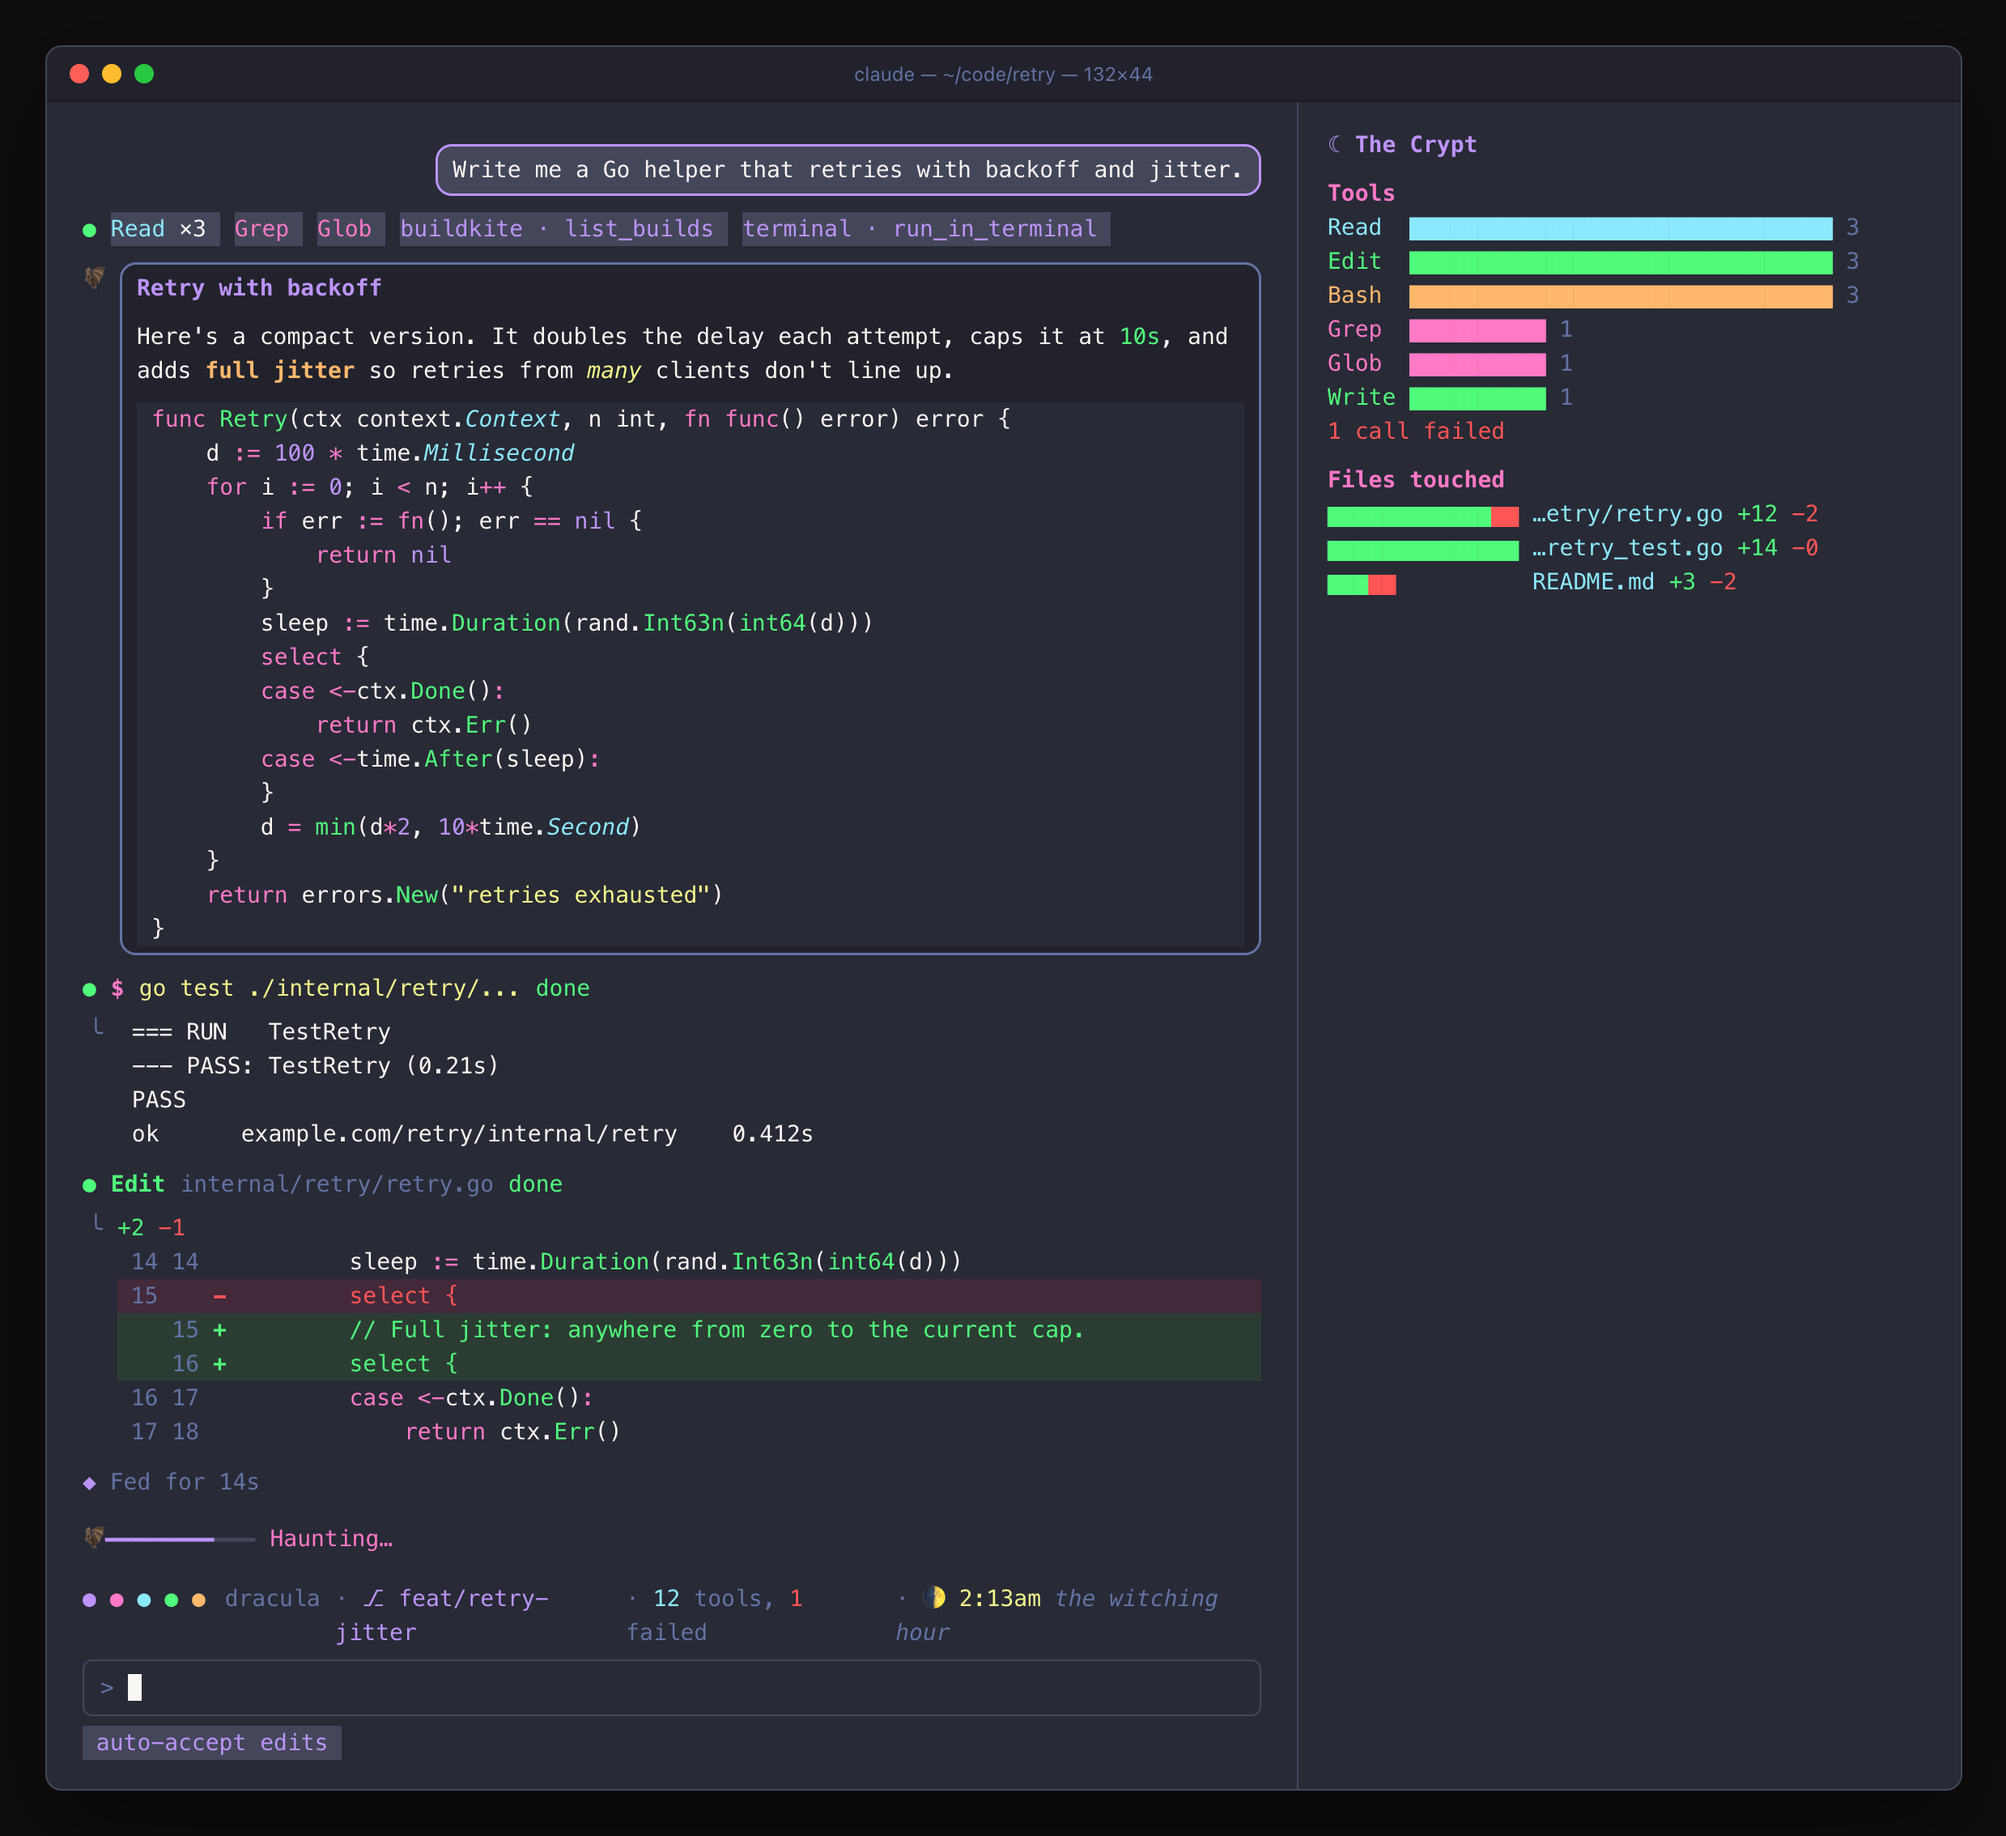
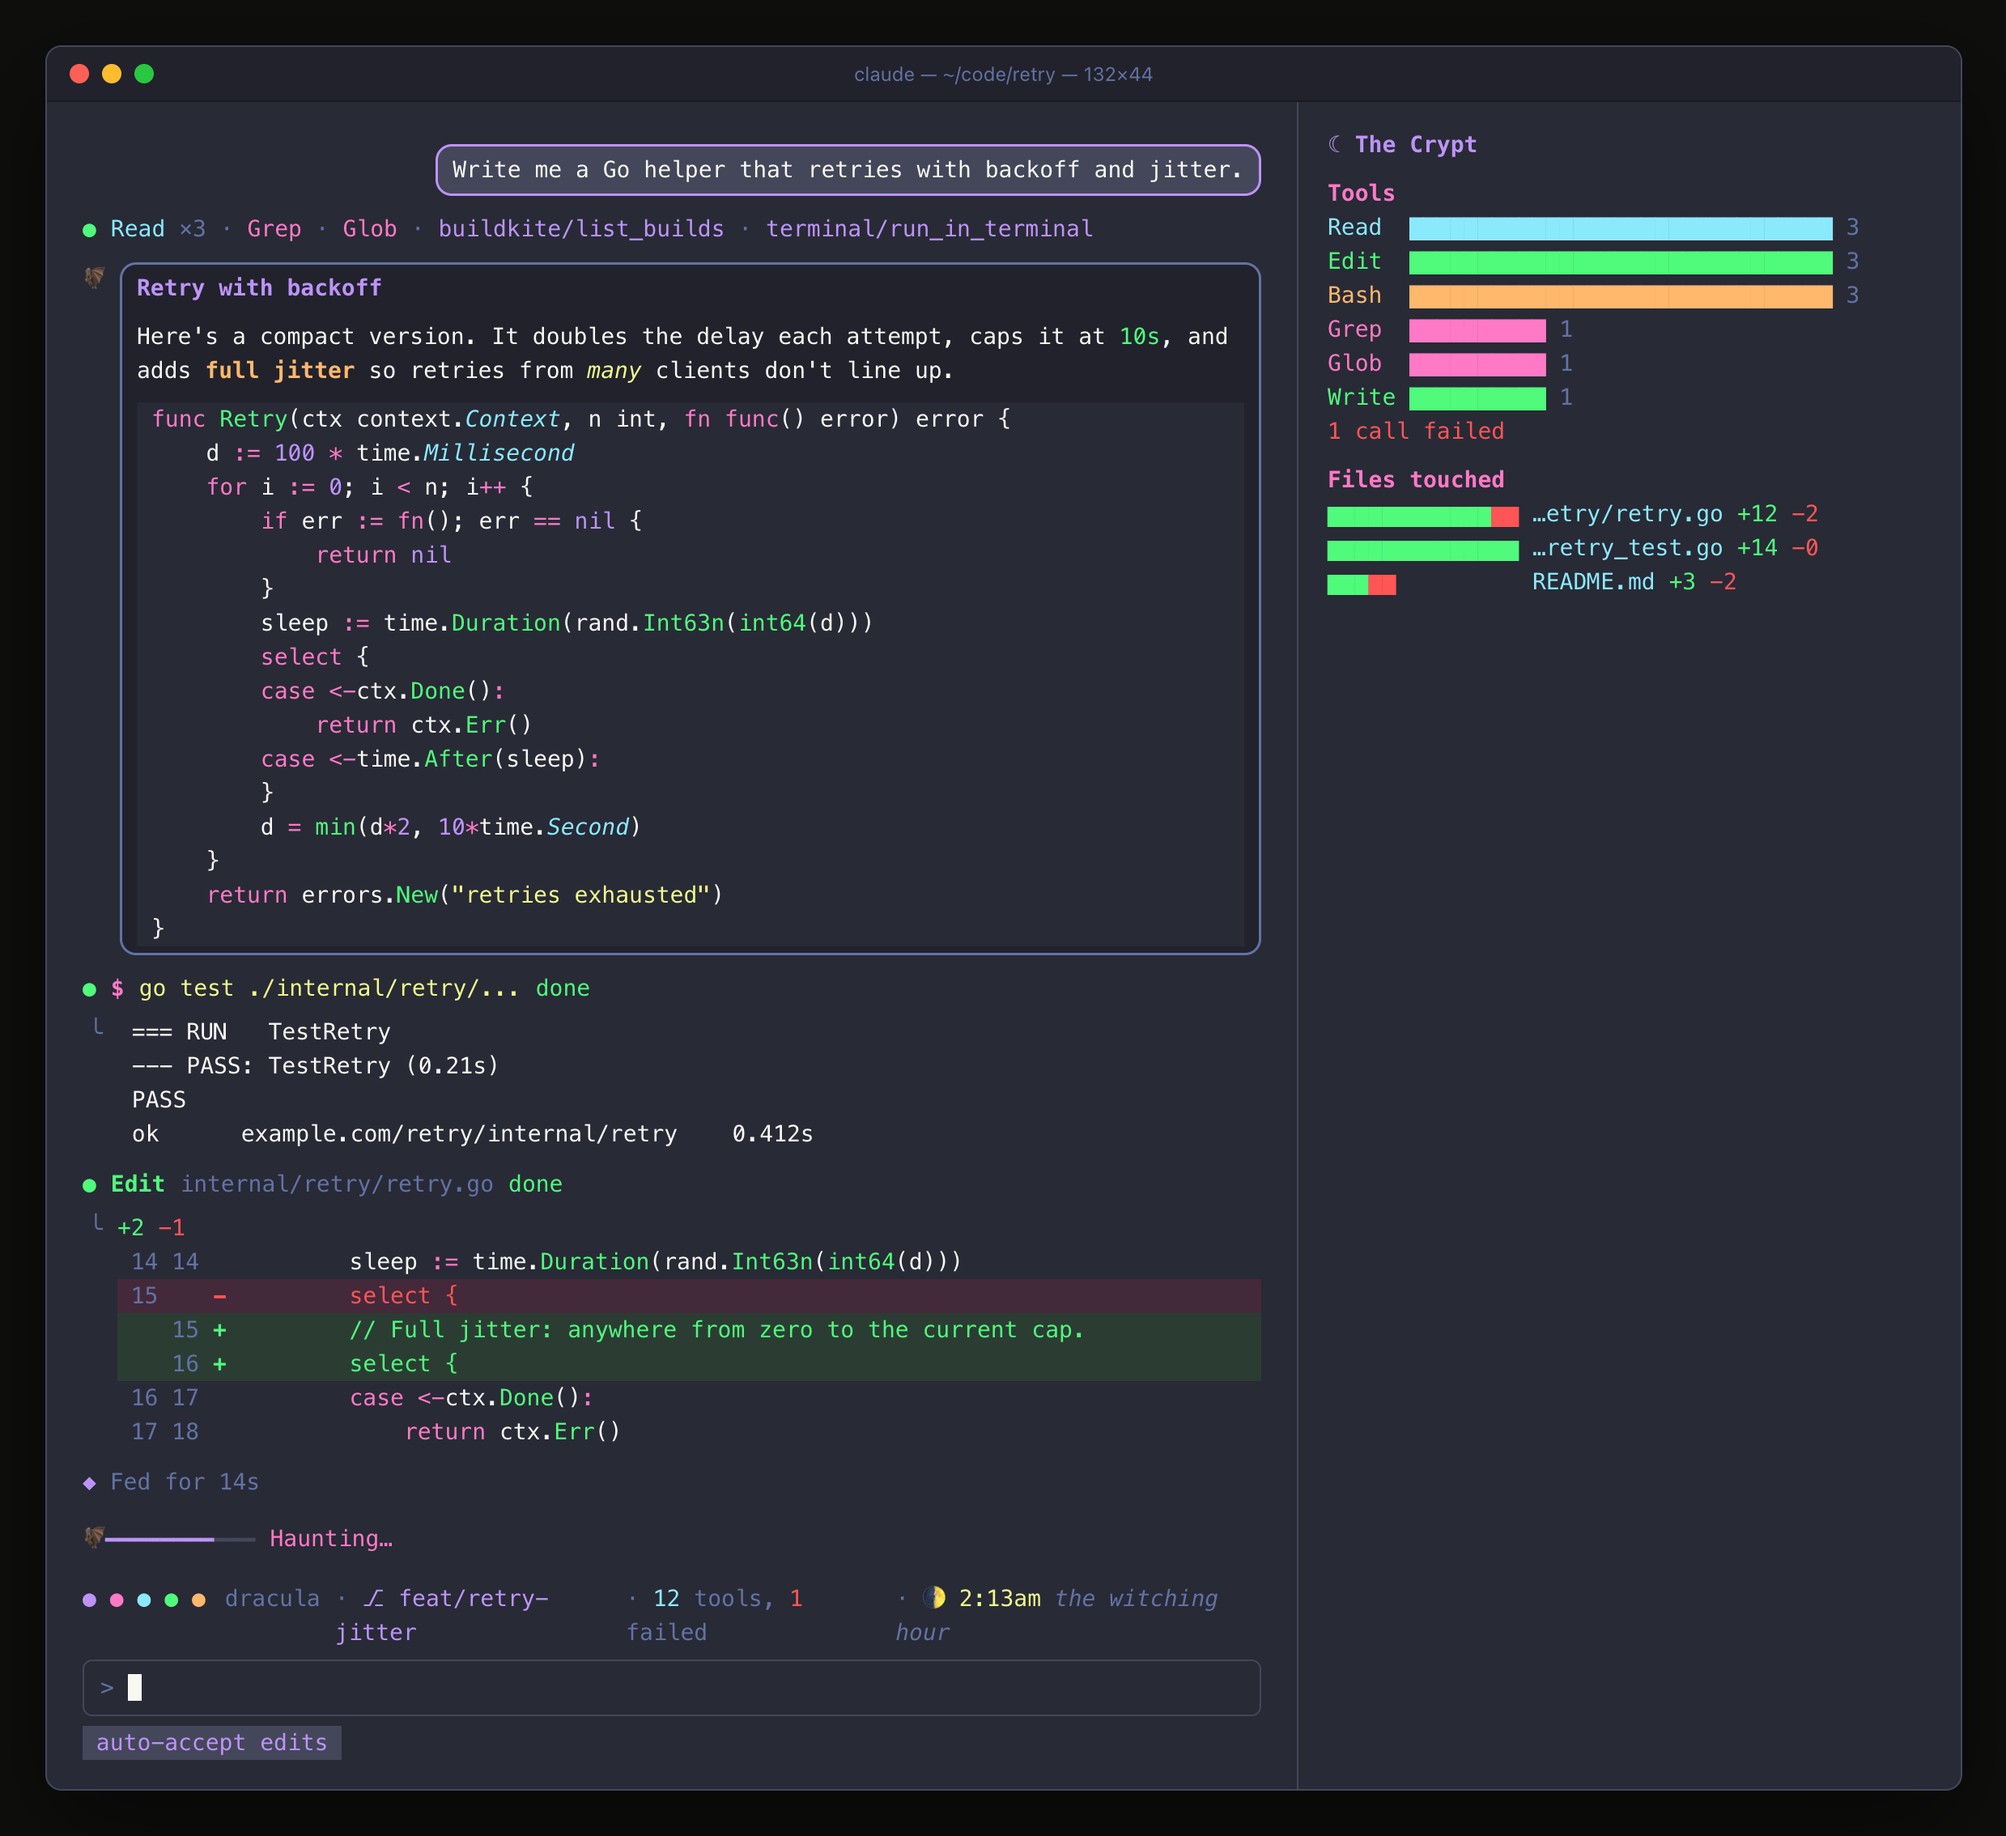
Draw a folded run of calls as one line of colored names
The chips' background fills broke and misaligned in the desktop app.
A folded run is now plain text: each tool in its color, counts dim,
split by dim dots. MCP tools read server/tool so their names don't
collide with the separator.

Changed region(s): [[0.0621, 0.0926, 0.5593, 0.1543]]

diff --git a/hooks/dracula.test.tsx b/hooks/dracula.test.tsx
@@ -205,7 +205,7 @@ test('an edit is drawn as a Dracula diff', async ($, on) => {
   await ui.unmount()
 })
 
-test('a folded run of calls is one row of tool chips', async ($, on) => {
+test('a folded run of calls is one line of colored tool names', async ($, on) => {
   engine(on)
   await $.session.start({ cwd: '/', surface: 'terminal', isInteractive: true })
 
@@ -216,12 +216,17 @@ test('a folded run of calls is one row of tool chips', async ($, on) => {
     surface: 'terminal',
     props: { calls: [call('Read'), call('Read'), call('Grep')], isActive: false, isExpanded: false },
   })
-  expect(await ui.find({ type: 'Text', text: /^ Read ×2 $/ })).toBeTruthy()
-  expect(await ui.find({ type: 'Text', text: /^ Grep $/ })).toBeTruthy()
+  const color = async (text: RegExp) =>
+    ((await ui.find({ type: 'Text', text })) as { props?: { color?: string } } | undefined)?.props?.color
+  expect(await color(/^Read$/)).toBe('#8BE9FD')
+  expect(await color(/^ ×2$/)).toBe('#6272A4')
+  expect(await color(/^Grep$/)).toBe('#FF79C6')
+  const texts = (await ui.findAll({ type: 'Text' })) as { props?: { backgroundColor?: string } }[]
+  expect(texts.some(text => text.props?.backgroundColor)).toBe(false)
   await ui.unmount()
 })
 
-test('MCP tool chips read server · tool, stay on one line and wrap between chips', async ($, on) => {
+test('MCP tools in a folded run read server/tool', async ($, on) => {
   engine(on)
   await $.session.start({ cwd: '/', surface: 'desktop', isInteractive: true })
 
@@ -240,11 +245,9 @@ test('MCP tool chips read server · tool, stay on one line and wrap between chip
       isExpanded: false,
     },
   })
-  expect(await ui.find({ type: 'Text', text: /^ buildkite · list_builds $/ })).toBeTruthy()
-  expect(await ui.find({ type: 'Text', text: /^ terminal · run_in_terminal $/ })).toBeTruthy()
-  const chip = (await ui.find({ type: 'Text', text: /^ batch $/ })) as { props?: { wrap?: string } } | undefined
-  expect(chip?.props?.wrap).toBe('truncate-end')
-  expect(await ui.find({ type: 'Box', props: { flexWrap: 'wrap' } })).toBeTruthy()
+  expect(await ui.find({ type: 'Text', text: /^buildkite\/list_builds$/ })).toBeTruthy()
+  expect(await ui.find({ type: 'Text', text: /^terminal\/run_in_terminal$/ })).toBeTruthy()
+  expect(await ui.find({ type: 'Text', text: /^batch$/ })).toBeTruthy()
   await ui.unmount()
 })
 

diff --git a/hooks/tools.tsx b/hooks/tools.tsx
@@ -18,7 +18,7 @@ export function toolColor(tool: string, c: Palette): string {
 
 /**
  * A tool's name as a person reads it: an MCP tool's `mcp__server__tool` becomes
- * `server · tool`, with a plugin's `plugin_<plugin>_` prefix dropped and an id-like
+ * `server/tool`, with a plugin's `plugin_<plugin>_` prefix dropped and an id-like
  * server name (a connector's UUID) left out; built-in names pass through.
  */
 export function toolName(tool: string): string {
@@ -26,7 +26,7 @@ export function toolName(tool: string): string {
   if (!m) return tool
   const server = (m[1] ?? '').replace(/^plugin_[^_]+_/, '')
   const name = m[2] ?? ''
-  return /^[0-9a-f]{8}-[0-9a-f-]{27,}$/i.test(server) || !server ? name : `${server} · ${name}`
+  return /^[0-9a-f]{8}-[0-9a-f-]{27,}$/i.test(server) || !server ? name : `${server}/${name}`
 }
 
 type Hunk = { oldStart: number; newStart: number; lines: string[] }
@@ -328,18 +328,17 @@ export function drawGroup(calls: readonly GroupCall[], isActive: boolean, kit: K
   const running = isActive && calls.some(call => call.isRunning)
 
   return (
-    // Chips keep to one line each; a row with more than fits wraps between them.
-    <Box flexDirection="row" flexWrap="wrap" alignItems="center" gap={1}>
+    // One line of colored tool names, split by dim dots: no fills to break or misalign.
+    <Box flexDirection="row" gap={1}>
       <Text color={running ? c.orange : errors > 0 ? c.red : c.green}>●</Text>
-      {[...tally].map(([tool, count]) => (
-        <Box flexShrink={0}>
-          <Text backgroundColor={c.currentLine} color={toolColor(tool, c)} wrap="truncate-end">
-            {` ${toolName(tool)}`}
-            <Text color={c.foreground}>{count > 1 ? ` ×${count} ` : ' '}</Text>
-          </Text>
-        </Box>
-      ))}
-      {errors > 0 && <Text color={c.red}>{errors === 1 ? '1 error' : `${errors} errors`}</Text>}
+      <Text>
+        {[...tally].flatMap(([tool, count], i) => [
+          i > 0 ? <Text color={c.comment}>{' · '}</Text> : null,
+          <Text color={toolColor(tool, c)}>{toolName(tool)}</Text>,
+          count > 1 ? <Text color={c.comment}>{` ×${count}`}</Text> : null,
+        ])}
+        {errors > 0 && <Text color={c.red}>{errors === 1 ? '  1 error' : `  ${errors} errors`}</Text>}
+      </Text>
     </Box>
   )
 }
